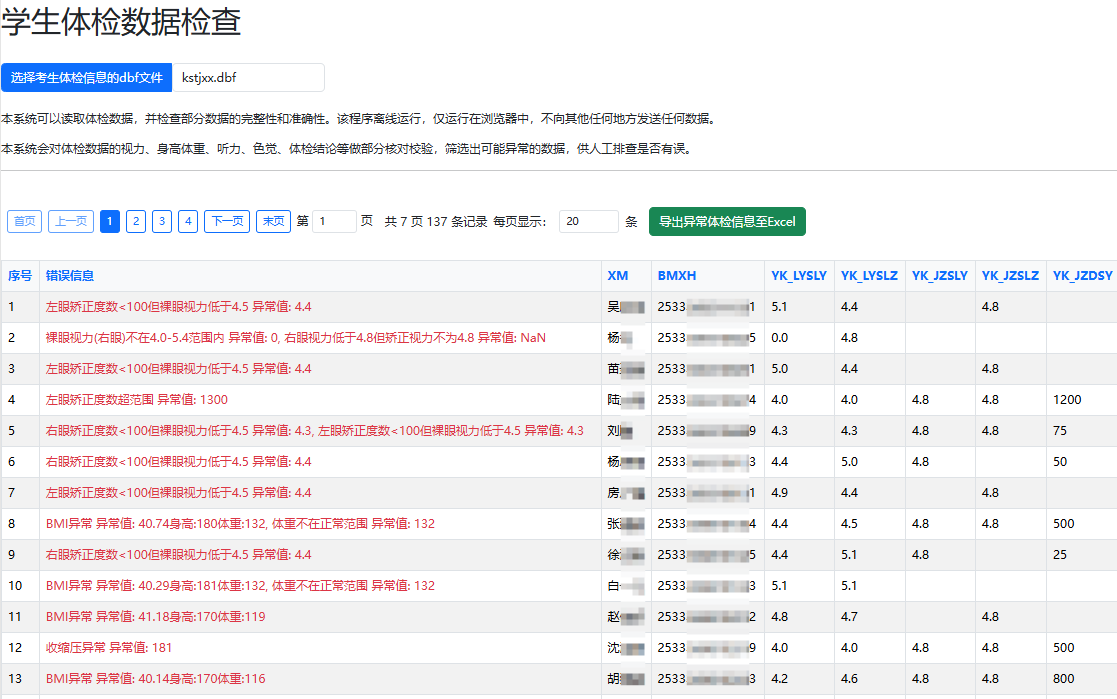
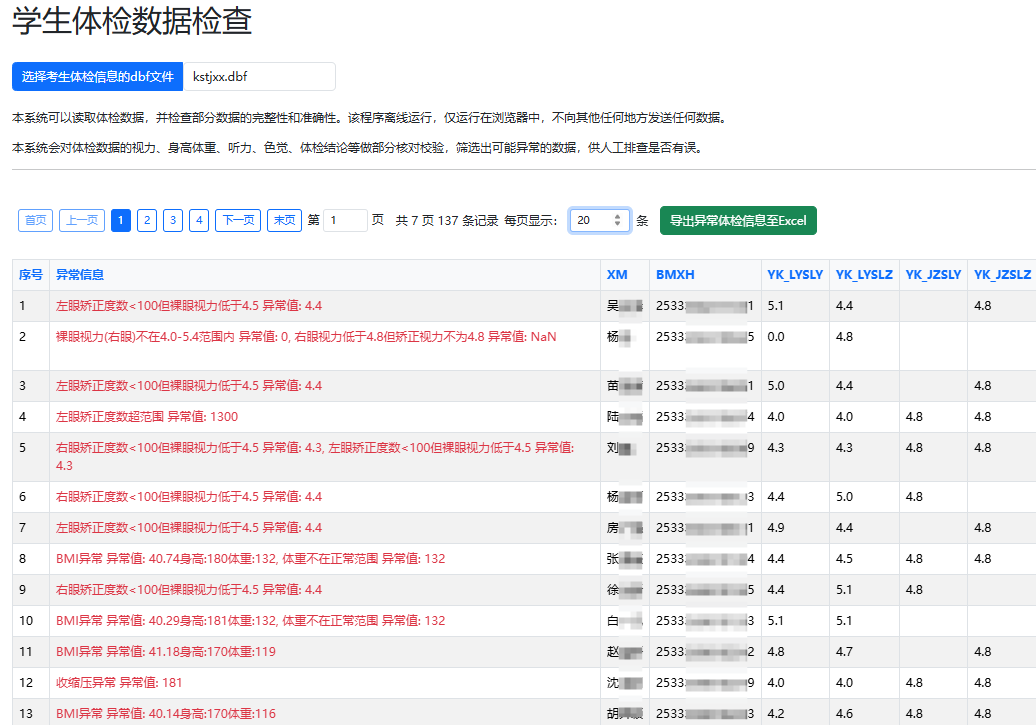
修改错误信息为异常信息，并更新相关文档描述

diff --git a/js/app.js b/js/app.js
@@ -184,7 +184,7 @@ const app = createApp({
             const data = this.errorStudents.map(student => {
                 const row = {};
                 this.tableHeaders.forEach(header => {
-                    if (header === '错误信息') {
+                    if (header === '异常信息') {
                         row[header] = student.errorList.join(', ');
                     } else {
                         row[header] = student[header] || '';

diff --git a/js/objects.js b/js/objects.js
@@ -54,7 +54,7 @@ class Student {
     static getFields() {
         return [
             '序号',
-            '错误信息',
+            '异常信息',
             'XM', 'BMXH',
             'YK_LYSLY', 'YK_LYSLZ',
             'YK_JZSLY', 'YK_JZSLZ',

diff --git a/index.html b/index.html
@@ -8,7 +8,7 @@
     <link href="css/style.css" rel="stylesheet">
 </head>
 <body>
-<div id="app" class="mt-4">
+<div id="app" class="m-4">
     <div class="row mb-4">
         <div class="col">
             <h1>学生体检数据检查</h1>

diff --git a/readme.md b/readme.md
@@ -9,7 +9,7 @@
 ## 功能特点
 - **DBF文件导入**：支持直接导入DBF格式的体检数据文件
 - **数据验证**：根据预设规则自动检查体检数据的有效性
-- **异常数据展示**：以表格形式展示所有异常数据，并提供详细的错误信息
+- **异常数据展示**：以表格形式展示所有异常数据，并提供详细的异常信息
 - **数据排序**：支持按任意列进行数据排序
 - **分页显示**：大量数据自动分页，提高浏览体验
 - **数据导出**：支持将异常数据导出为Excel文件，方便后续处理
